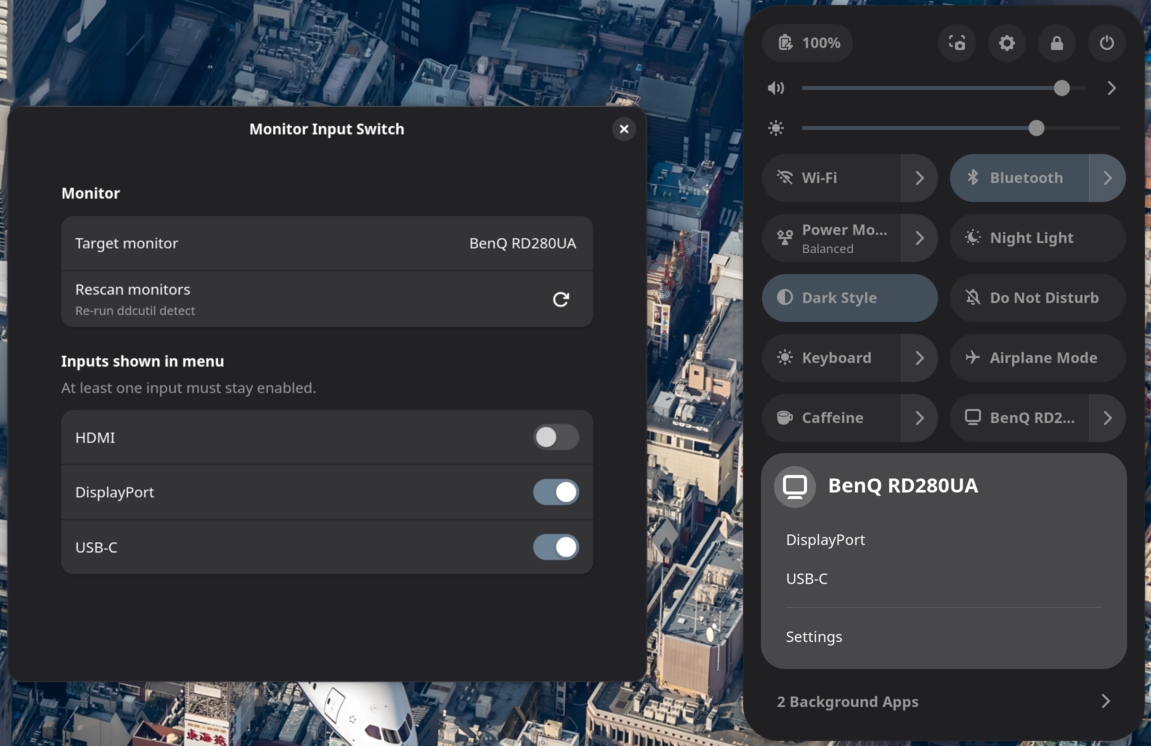
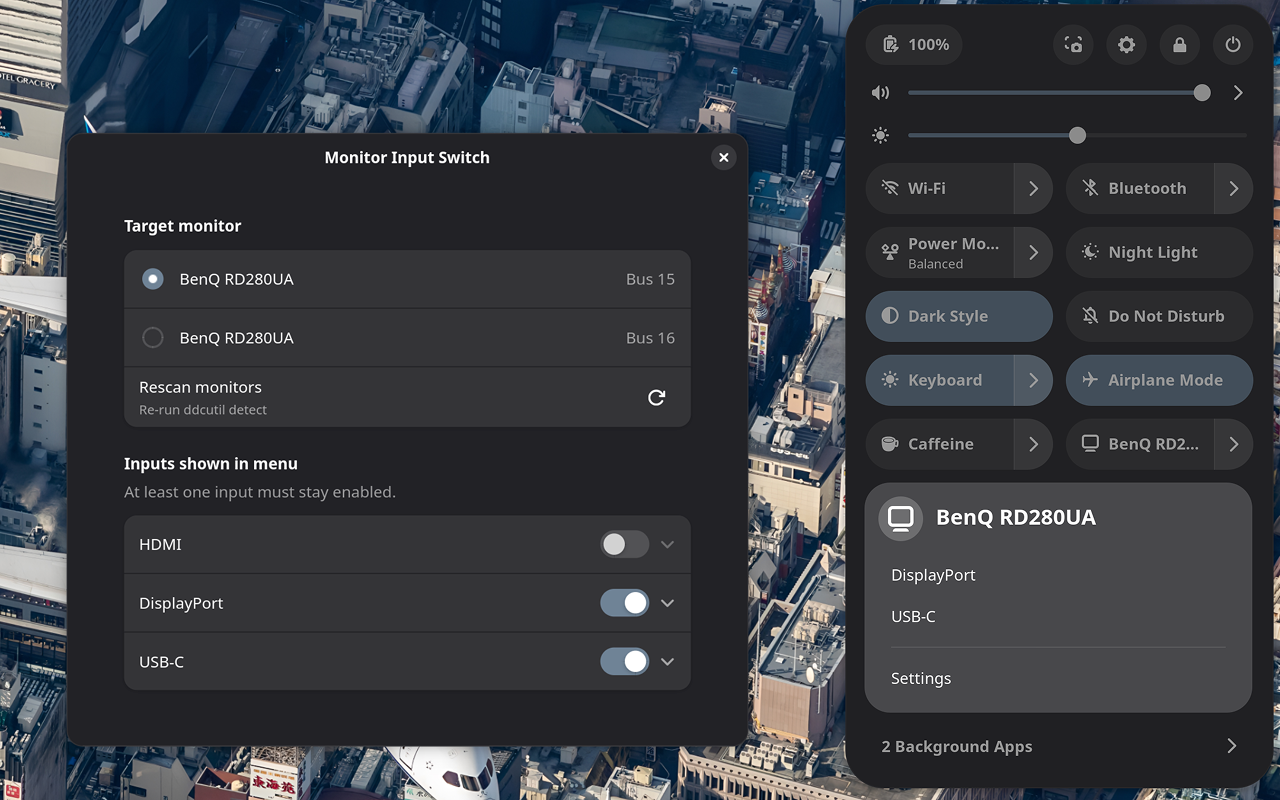
Always show bus number and keep radio style for a single monitor; update screenshot

diff --git a/src/prefs.js b/src/prefs.js
@@ -65,13 +65,15 @@ export default class MonitorInputSwitchPrefs extends ExtensionPreferences {
                     sensitive: false,
                 }));
             }
-            let first = null;
+            // Never shown: a GtkCheckButton only draws as a radio (and can't
+            // be unticked) when grouped, so this keeps a lone monitor's row
+            // consistent with the multi-monitor case.
+            const anchor = new Gtk.CheckButton();
             for (const [bus, name] of entries) {
-                const check = new Gtk.CheckButton({ valign: Gtk.Align.CENTER });
-                if (first)
-                    check.group = first;
-                else
-                    first = check;
+                const check = new Gtk.CheckButton({
+                    valign: Gtk.Align.CENTER,
+                    group: anchor,
+                });
                 check.connect('toggled', () => {
                     if (syncing || !check.active)
                         return;
@@ -84,12 +86,10 @@ export default class MonitorInputSwitchPrefs extends ExtensionPreferences {
                     activatableWidget: check,
                 });
                 row.add_prefix(check);
-                if (entries.length > 1) {
-                    row.add_suffix(new Gtk.Label({
-                        label: _('Bus %s').replace('%s', bus),
-                        cssClasses: ['dim-label'],
-                    }));
-                }
+                row.add_suffix(new Gtk.Label({
+                    label: _('Bus %s').replace('%s', bus),
+                    cssClasses: ['dim-label'],
+                }));
                 checks.set(bus, check);
                 monitorRows.push(row);
             }
